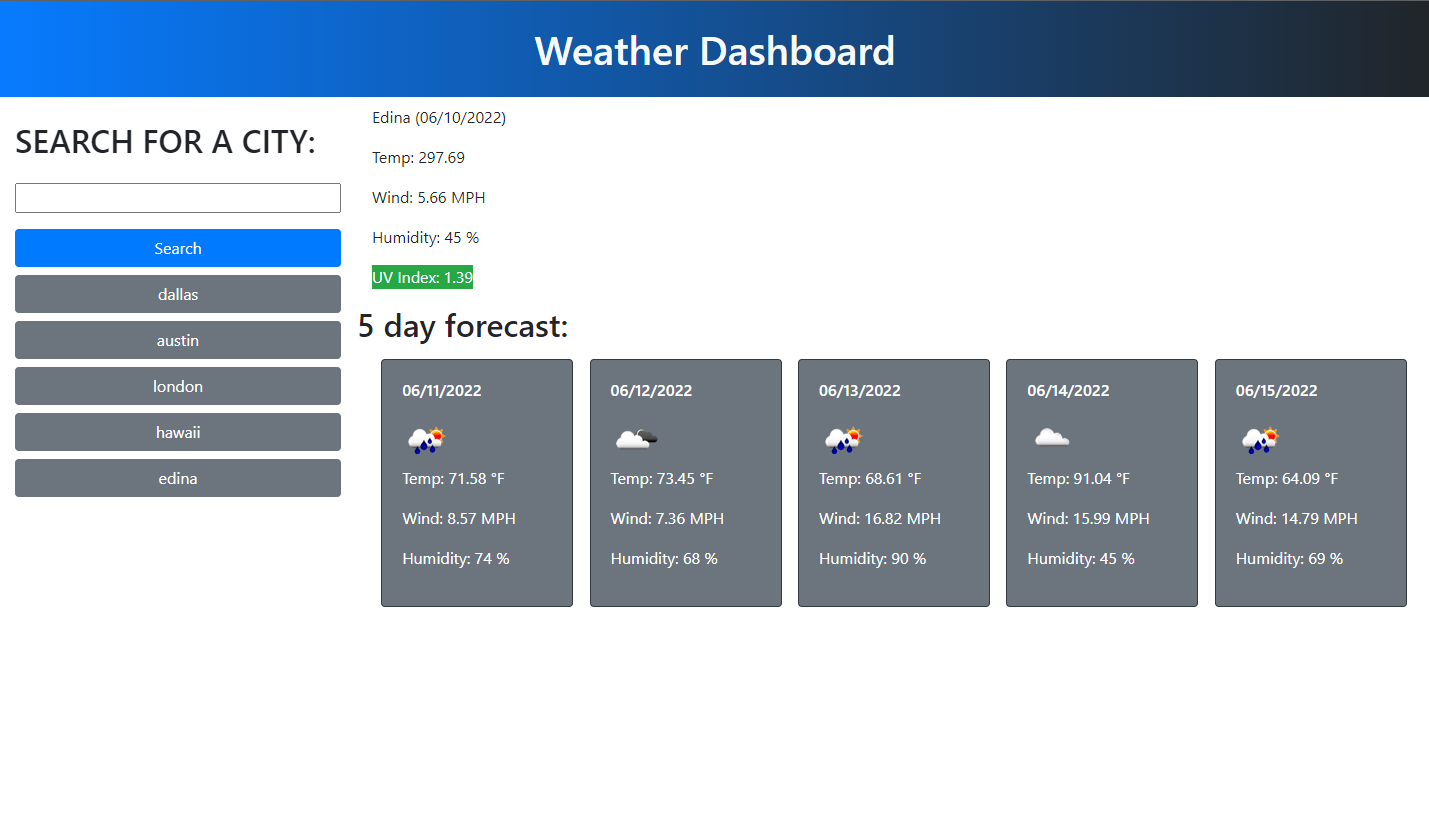
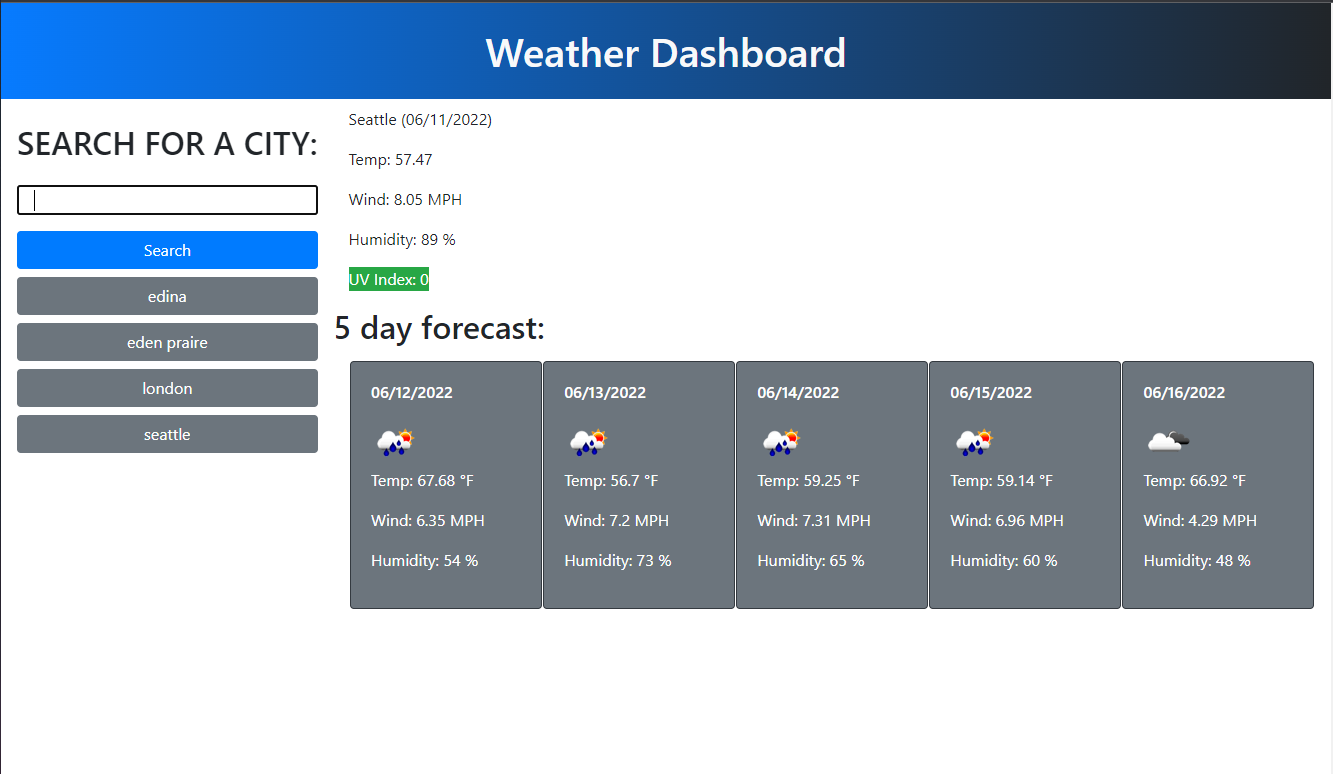
city temp fix

Changed region(s): [[0.0, 0.0, 1.0, 0.8062], [0.9842, 0.0, 1.0, 0.031]]

diff --git a/assets/js/script.js b/assets/js/script.js
@@ -11,9 +11,9 @@ if (localStorage.getItem("key") && localStorage.getItem("key").length > 0) {
 
 var getUserCity = function (cityName) {
   var apiUrl =
-    `https://api.openweathermap.org/data/2.5/weather?q=` +
+  `https://api.openweathermap.org/data/2.5/weather?q=` +
     cityName +
-    `&appid=c1ecab3291362f3fe61c8735f3bd9de6`;
+    `&units=imperial&appid=4b9cf619ade932d30706497fcf318e67`;
 
   fetch(apiUrl)
     .then(function (response) {
@@ -44,7 +44,7 @@ var displayWeather = function (data) {
 };
 
 var oneCall = function (data) {
-  var apiUrl = `https://api.openweathermap.org/data/2.5/onecall?lat=${data.coord.lat}&lon=${data.coord.lon}&exclude={current,minutely,hourly,alerts}&units=imperial&appid=c1ecab3291362f3fe61c8735f3bd9de6`;
+  var apiUrl = `https://api.openweathermap.org/data/2.5/onecall?lat=${data.coord.lat}&lon=${data.coord.lon}&exclude={current,minutely,hourly,alerts}&units=imperial&appid=4b9cf619ade932d30706497fcf318e67`;
 
   fetch(apiUrl)
     .then(function (response) {
